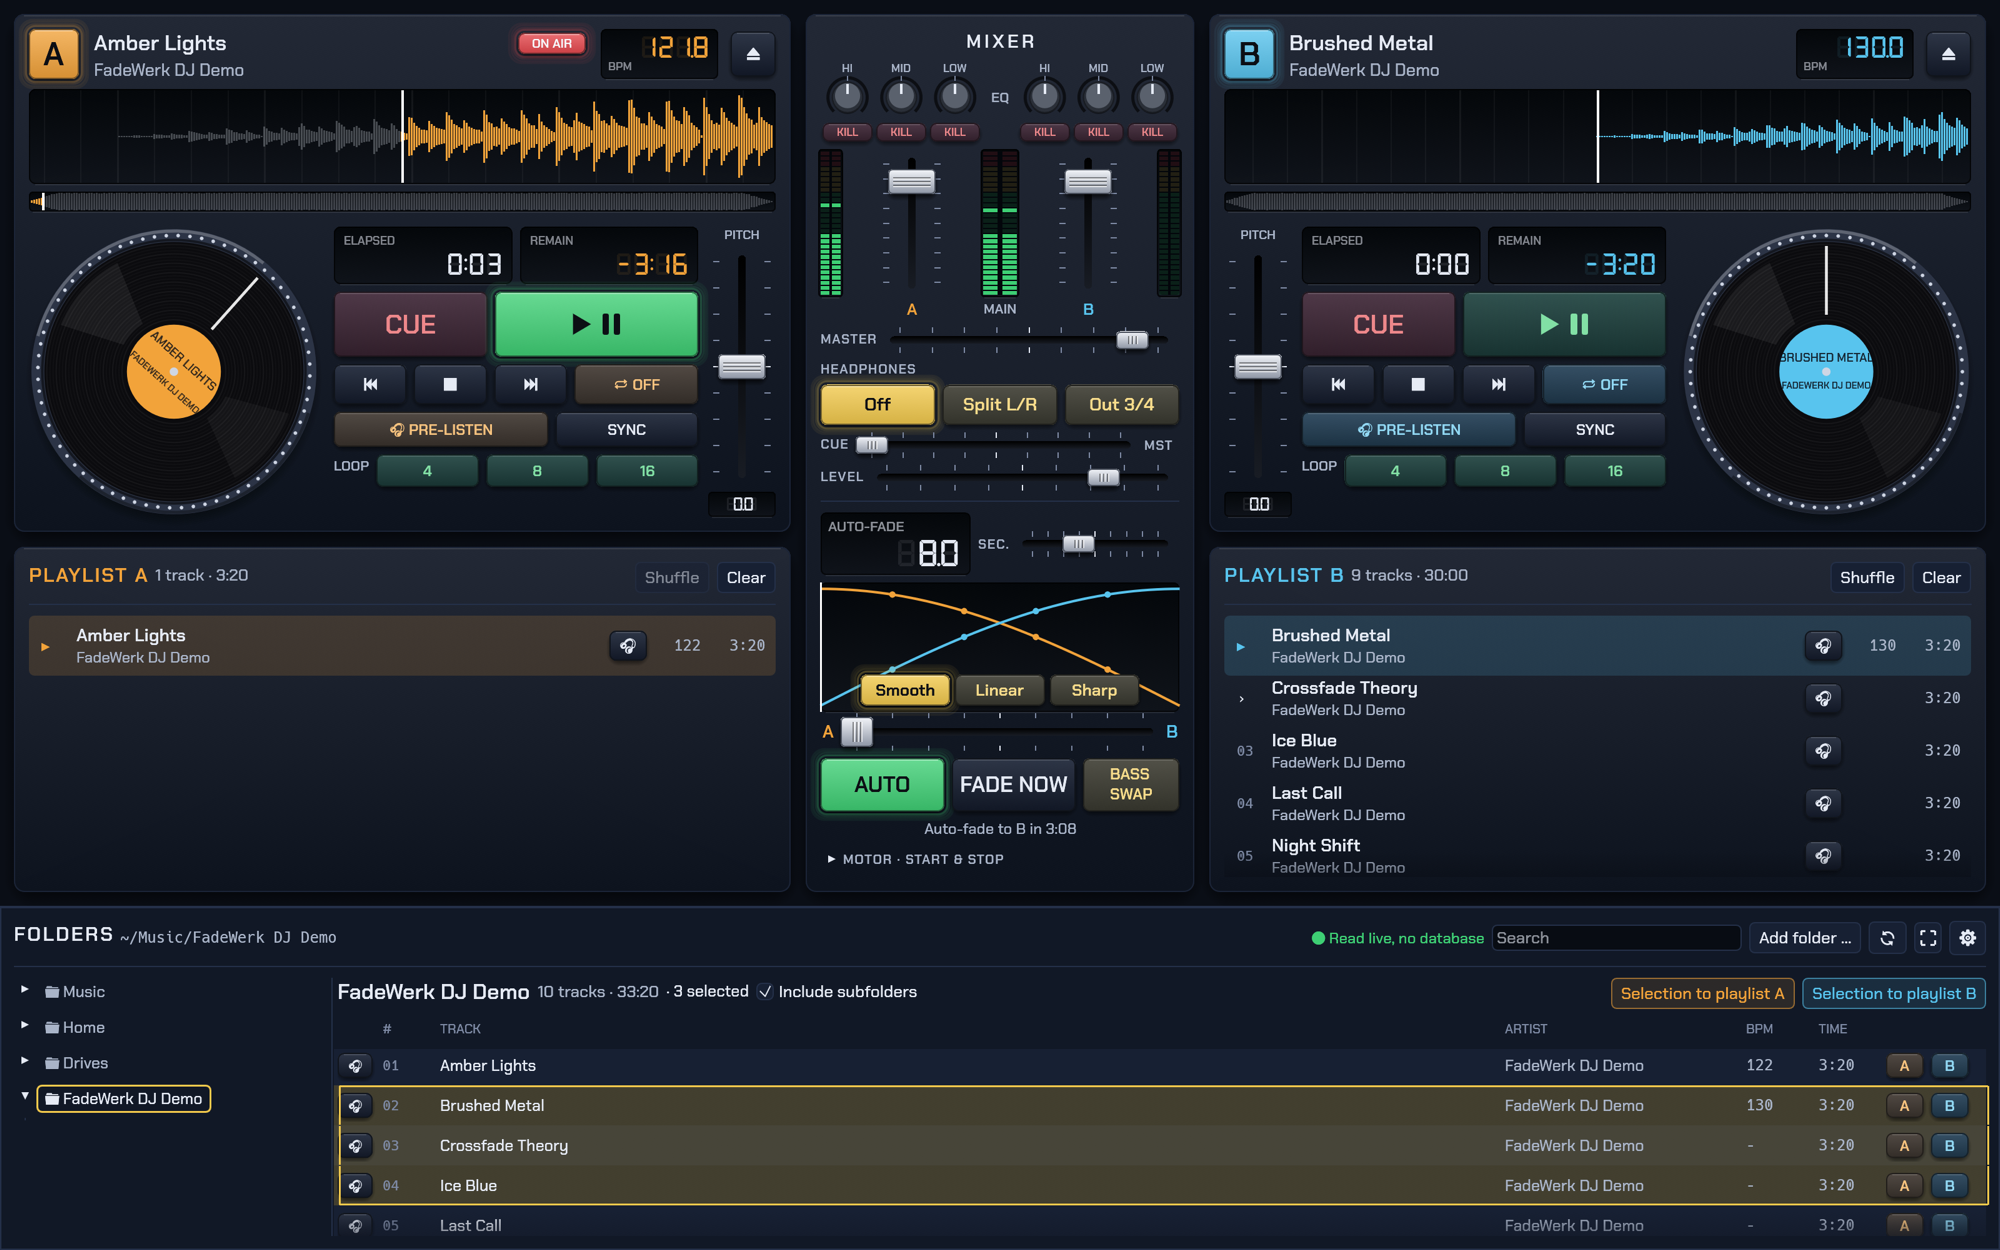
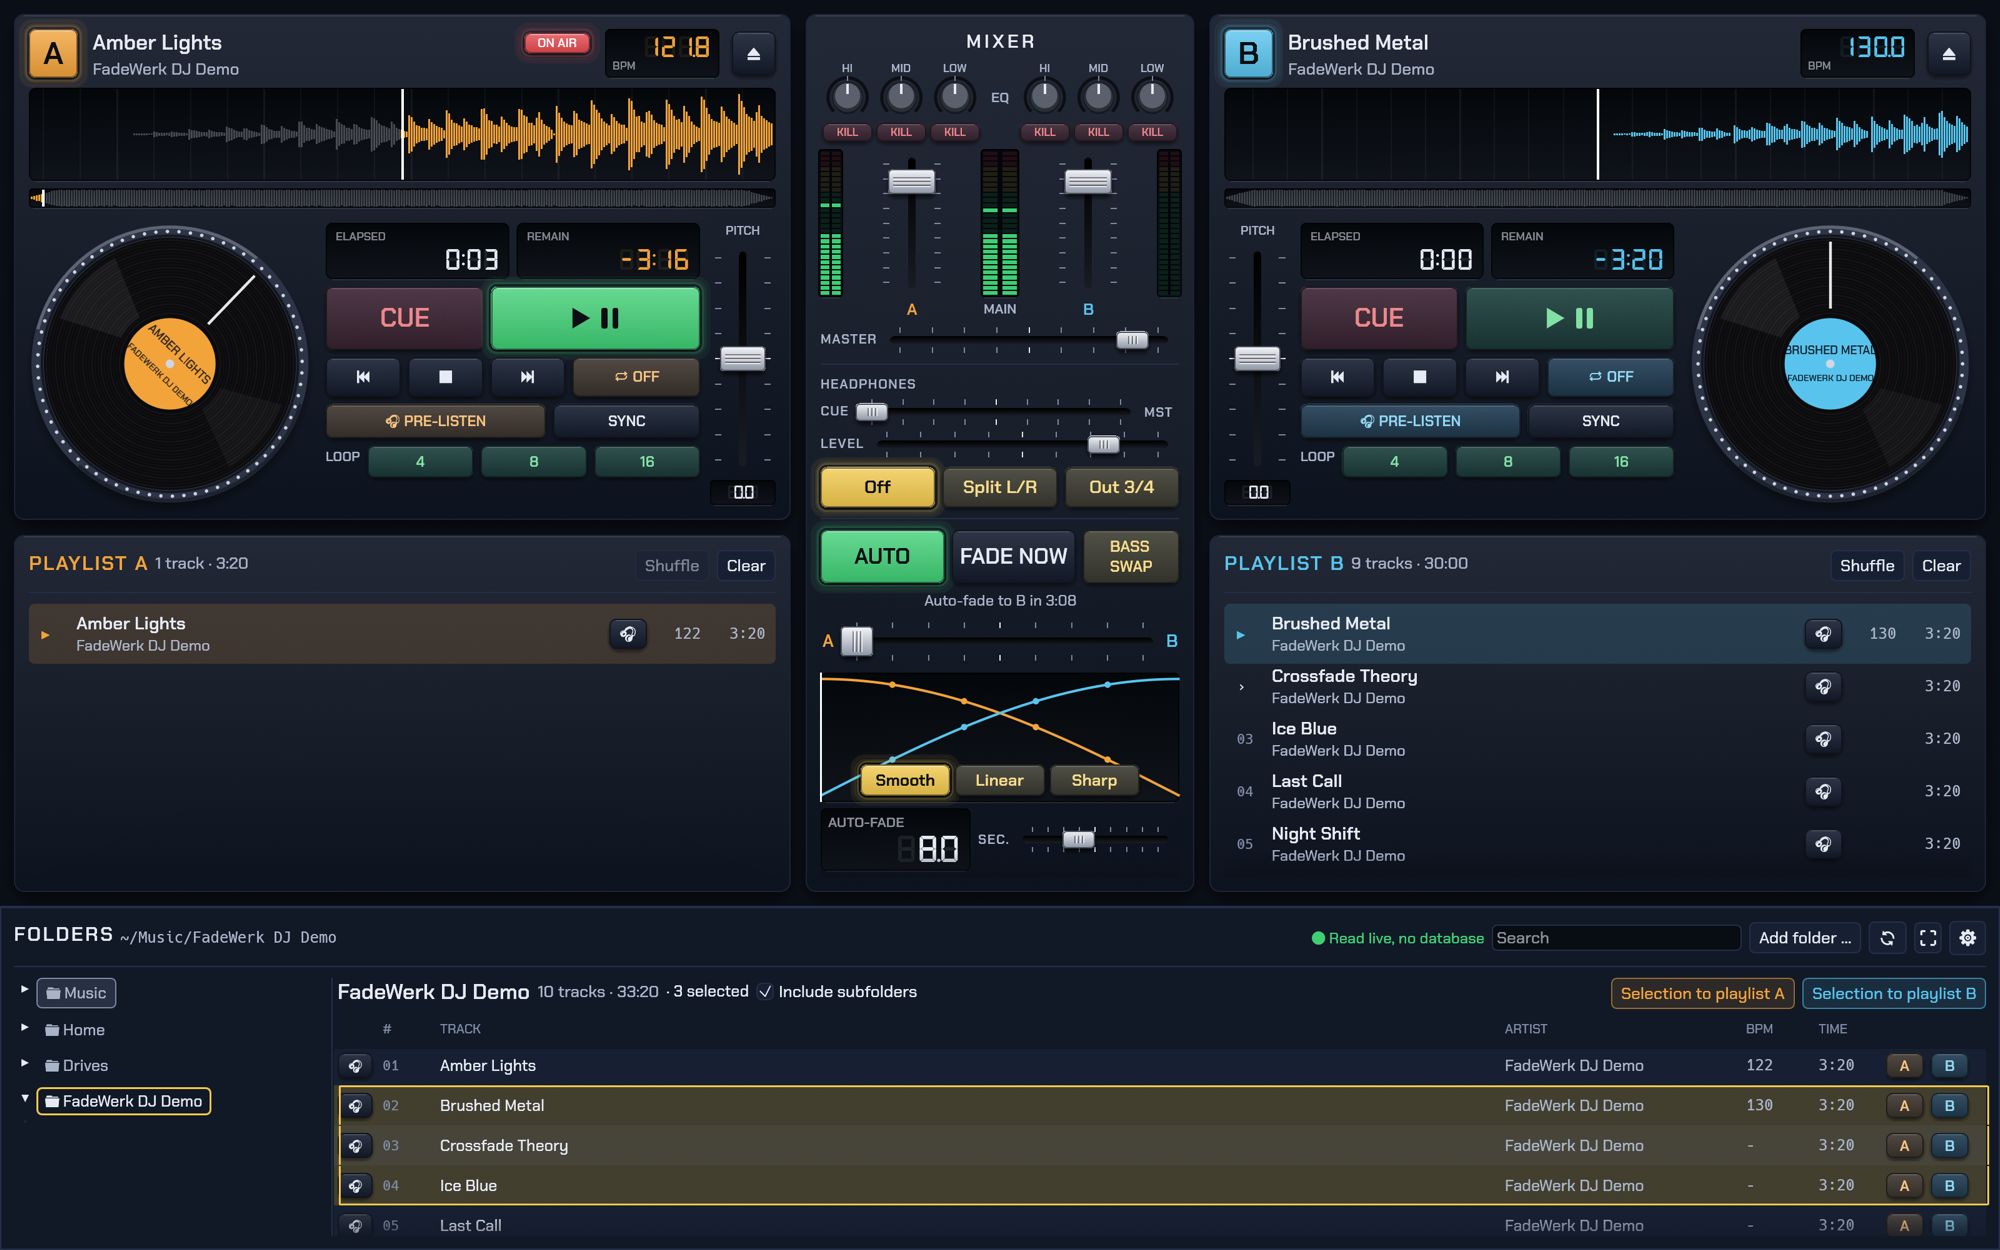
Version 0.1.4: Tasten der Mittelspalte zusammengefasst
Kopfhörer-Betriebsart sowie AUTO, FADEN und BASS SWAP stehen jetzt direkt
untereinander unter den Pegelreglern und bleiben sichtbar, wenn der
Ordnerbrowser die Mittelspalte kürzt. Der Kopfhörer-Block ist durch eine Linie
vom Master getrennt. Darunter folgen Crossfader, Blendkurve und Überblendzeit.
Screenshots aktualisiert.

diff --git a/app/src/mixer_ui.rs b/app/src/mixer_ui.rs
@@ -96,7 +96,26 @@ pub fn show_mixer(ui: &mut egui::Ui, m: &MixerModel<'_>, out: &mut Vec<MixerActi
         }
     });
 
+    // Kopfhörer-Block (Regler und Betriebsart) durch eine Linie vom Master getrennt
+    ui.separator();
     ui.label(small("KOPFHÖRER"));
+    ui.horizontal(|ui| {
+        ui.label(small("CUE"));
+        let (resp, new) = hw::mini_fader(ui, "headmix", m.head_mix, settings::DEFAULT_HEAD_MIX, 0.0, 1.0, ui.available_width() - 34.0);
+        resp.on_hover_text(tr("Mischung Vorhören ↔ Master"));
+        if let Some(v) = new {
+            out.push(MixerAction::HeadMix(v));
+        }
+        ui.label(small("MST"));
+    });
+    ui.horizontal(|ui| {
+        ui.label(small("PEGEL"));
+        if let (_, Some(v)) = hw::mini_fader(ui, "headvol", m.head_volume, settings::DEFAULT_HEAD_VOLUME, 0.0, 1.0, ui.available_width() - 4.0) {
+            out.push(MixerAction::HeadVolume(v));
+        }
+    });
+    // Betriebsart unter den Reglern, damit sie mit den Auto-Fade-Tasten darunter eine Tastengruppe bildet
+    ui.add_space(2.0);
     ui.horizontal(|ui| {
         let bw = (ui.available_width() - 12.0) / 3.0;
         let third = if m.head_device {
@@ -113,21 +132,6 @@ pub fn show_mixer(ui: &mut egui::Ui, m: &MixerModel<'_>, out: &mut Vec<MixerActi
             if hw::button(ui, vec2(bw, 26.0 * k), tr(label), fonts::bold(11.5 * k), hw::Look::Color(theme::yellow()), on, true).on_hover_text(tr(tip)).clicked() {
                 out.push(MixerAction::HeadMode(mode));
             }
-        }
-    });
-    ui.horizontal(|ui| {
-        ui.label(small("CUE"));
-        let (resp, new) = hw::mini_fader(ui, "headmix", m.head_mix, settings::DEFAULT_HEAD_MIX, 0.0, 1.0, ui.available_width() - 34.0);
-        resp.on_hover_text(tr("Mischung Vorhören ↔ Master"));
-        if let Some(v) = new {
-            out.push(MixerAction::HeadMix(v));
-        }
-        ui.label(small("MST"));
-    });
-    ui.horizontal(|ui| {
-        ui.label(small("PEGEL"));
-        if let (_, Some(v)) = hw::mini_fader(ui, "headvol", m.head_volume, settings::DEFAULT_HEAD_VOLUME, 0.0, 1.0, ui.available_width() - 4.0) {
-            out.push(MixerAction::HeadVolume(v));
         }
     });
     // Das aktive Gerät steht in den Einstellungen; hier nur ein Hinweis, wenn es fehlt
@@ -199,21 +203,41 @@ pub enum FadeAction {
 
 pub fn show_fade(ui: &mut egui::Ui, m: &FadeModel<'_>, out: &mut Vec<FadeAction>) {
     let k = scale(ui);
+    // Die Tasten stehen oben, damit sie sichtbar bleiben, wenn der Ordnerbrowser die Mittelspalte kürzt;
+    // Überblendzeit und Kurve werden im Betrieb seltener gebraucht
     ui.horizontal(|ui| {
-        // Überblendzeit als LCD, die Überschrift steht im Display
-        let scale = (ui.available_width() / 230.0).clamp(1.0, 1.5);
-        let (lcd, _) = ui.allocate_exact_size(vec2(96.0, 40.0) * scale, Sense::hover());
-        hw::well(ui.painter(), lcd, 4.0);
-        ui.painter().text(lcd.left_top() + vec2(6.0, 4.0), Align2::LEFT_TOP, tr("AUTO-FADE"), fonts::bold(9.0 * scale), theme::well_ink().gamma_multiply(0.6));
-        hw::lcd_text(ui.painter(), lcd.right_bottom() - vec2(8.0, 5.0), Align2::RIGHT_BOTTOM, &format!("{:4.1}", m.fade_secs), 17.0 * scale, theme::well_ink());
-        ui.label(small("SEK."));
-        let (resp, new) = hw::mini_fader(ui, "fadesecs", m.fade_secs, settings::DEFAULT_FADE_SECS, 1.0, 20.0, ui.available_width() - 4.0);
-        resp.on_hover_text(tr("Überblendzeit"));
-        if let Some(v) = new {
-            out.push(FadeAction::FadeSecs((v * 2.0).round() / 2.0));
+        let avail = ui.available_width() - 12.0;
+        let bw = avail * 0.36;
+        if hw::button(ui, vec2(bw, 34.0 * k), "AUTO", fonts::bold(14.0 * k), hw::Look::Color(theme::play()), m.auto, true).clicked() {
+            out.push(FadeAction::Auto(!m.auto));
+        }
+        if hw::button(ui, vec2(bw, 34.0 * k), tr("FADEN"), fonts::bold(14.0 * k), hw::Look::Plain, false, true).clicked() {
+            out.push(FadeAction::FadeNow);
+        }
+        let tip = tr("Beim Überblenden kommt der neue Titel ohne Bässe herein, in der Mitte tauschen die Bässe. Klingt sauberer als ein reiner Lautstärke-Fade.");
+        let swap = hw::button(ui, vec2(avail - 2.0 * bw, 34.0 * k), "BASS\nSWAP", fonts::bold(10.0 * k), hw::Look::Color(theme::yellow()), m.bass_swap, true);
+        if swap.on_hover_text(tip).clicked() {
+            out.push(FadeAction::BassSwap(!m.bass_swap));
         }
     });
+    ui.vertical_centered(|ui| ui.label(RichText::new(m.status).size(12.0).color(theme::dim())));
+    ui.add_space(4.0);
+    // Crossfader über der Kurve, die weiße Linie darin zeigt seine Stellung
+    // A und B direkt auf die Höhe der Fadermitte gezeichnet, damit beide gleich sitzen
+    let (row, _) = ui.allocate_exact_size(vec2(ui.available_width(), 30.0), Sense::hover());
+    let label_w = 16.0;
+    let rect = Rect::from_min_max(pos2(row.left() + label_w, row.top()), pos2(row.right() - label_w, row.bottom()));
+    let (resp, new) = hw::horizontal_fader(ui, rect, "crossfader", m.crossfader, 0.0);
+    resp.on_hover_text(tr("Crossfader"));
+    if let Some(x) = new {
+        out.push(FadeAction::Crossfader(x));
+    }
+    let p = ui.painter();
+    p.text(pos2(row.left() + label_w / 2.0 - 2.0, row.center().y), Align2::CENTER_CENTER, "A", fonts::bold(14.0), theme::deck_color(0));
+    p.text(pos2(row.right() - label_w / 2.0 + 2.0, row.center().y), Align2::CENTER_CENTER, "B", fonts::bold(14.0), theme::deck_color(1));
 
+
+    ui.add_space(4.0);
     // Blendkurve: Linien lassen sich ziehen, Rechtsklick setzt auf „Weich“ zurück
     // Flaches Breitformat, nach oben begrenzt, damit die Box auf großen Monitoren nicht wuchtig wird
     let cw = ui.available_width();
@@ -261,36 +285,22 @@ pub fn show_fade(ui: &mut egui::Ui, m: &FadeModel<'_>, out: &mut Vec<FadeAction>
         }
     }
 
-    // Crossfader
-    // A und B direkt auf die Höhe der Fadermitte gezeichnet, damit beide gleich sitzen
-    let (row, _) = ui.allocate_exact_size(vec2(ui.available_width(), 30.0), Sense::hover());
-    let label_w = 16.0;
-    let rect = Rect::from_min_max(pos2(row.left() + label_w, row.top()), pos2(row.right() - label_w, row.bottom()));
-    let (resp, new) = hw::horizontal_fader(ui, rect, "crossfader", m.crossfader, 0.0);
-    resp.on_hover_text(tr("Crossfader"));
-    if let Some(x) = new {
-        out.push(FadeAction::Crossfader(x));
-    }
-    let p = ui.painter();
-    p.text(pos2(row.left() + label_w / 2.0 - 2.0, row.center().y), Align2::CENTER_CENTER, "A", fonts::bold(14.0), theme::deck_color(0));
-    p.text(pos2(row.right() - label_w / 2.0 + 2.0, row.center().y), Align2::CENTER_CENTER, "B", fonts::bold(14.0), theme::deck_color(1));
-
+    // Überblendzeit unter der Kurve
+    ui.add_space(4.0);
     ui.horizontal(|ui| {
-        let avail = ui.available_width() - 12.0;
-        let bw = avail * 0.36;
-        if hw::button(ui, vec2(bw, 34.0 * k), "AUTO", fonts::bold(14.0 * k), hw::Look::Color(theme::play()), m.auto, true).clicked() {
-            out.push(FadeAction::Auto(!m.auto));
-        }
-        if hw::button(ui, vec2(bw, 34.0 * k), tr("FADEN"), fonts::bold(14.0 * k), hw::Look::Plain, false, true).clicked() {
-            out.push(FadeAction::FadeNow);
-        }
-        let tip = tr("Beim Überblenden kommt der neue Titel ohne Bässe herein, in der Mitte tauschen die Bässe. Klingt sauberer als ein reiner Lautstärke-Fade.");
-        let swap = hw::button(ui, vec2(avail - 2.0 * bw, 34.0 * k), "BASS\nSWAP", fonts::bold(10.0 * k), hw::Look::Color(theme::yellow()), m.bass_swap, true);
-        if swap.on_hover_text(tip).clicked() {
-            out.push(FadeAction::BassSwap(!m.bass_swap));
+        // Überblendzeit als LCD, die Überschrift steht im Display
+        let scale = (ui.available_width() / 230.0).clamp(1.0, 1.5);
+        let (lcd, _) = ui.allocate_exact_size(vec2(96.0, 40.0) * scale, Sense::hover());
+        hw::well(ui.painter(), lcd, 4.0);
+        ui.painter().text(lcd.left_top() + vec2(6.0, 4.0), Align2::LEFT_TOP, tr("AUTO-FADE"), fonts::bold(9.0 * scale), theme::well_ink().gamma_multiply(0.6));
+        hw::lcd_text(ui.painter(), lcd.right_bottom() - vec2(8.0, 5.0), Align2::RIGHT_BOTTOM, &format!("{:4.1}", m.fade_secs), 17.0 * scale, theme::well_ink());
+        ui.label(small("SEK."));
+        let (resp, new) = hw::mini_fader(ui, "fadesecs", m.fade_secs, settings::DEFAULT_FADE_SECS, 1.0, 20.0, ui.available_width() - 4.0);
+        resp.on_hover_text(tr("Überblendzeit"));
+        if let Some(v) = new {
+            out.push(FadeAction::FadeSecs((v * 2.0).round() / 2.0));
         }
     });
-    ui.vertical_centered(|ui| ui.label(RichText::new(m.status).size(12.0).color(theme::dim())));
 
     egui::CollapsingHeader::new(small("MOTOR · ANLAUF & AUSLAUF")).id_salt("motor").show(ui, |ui| {
         let mut motor = m.motor;
